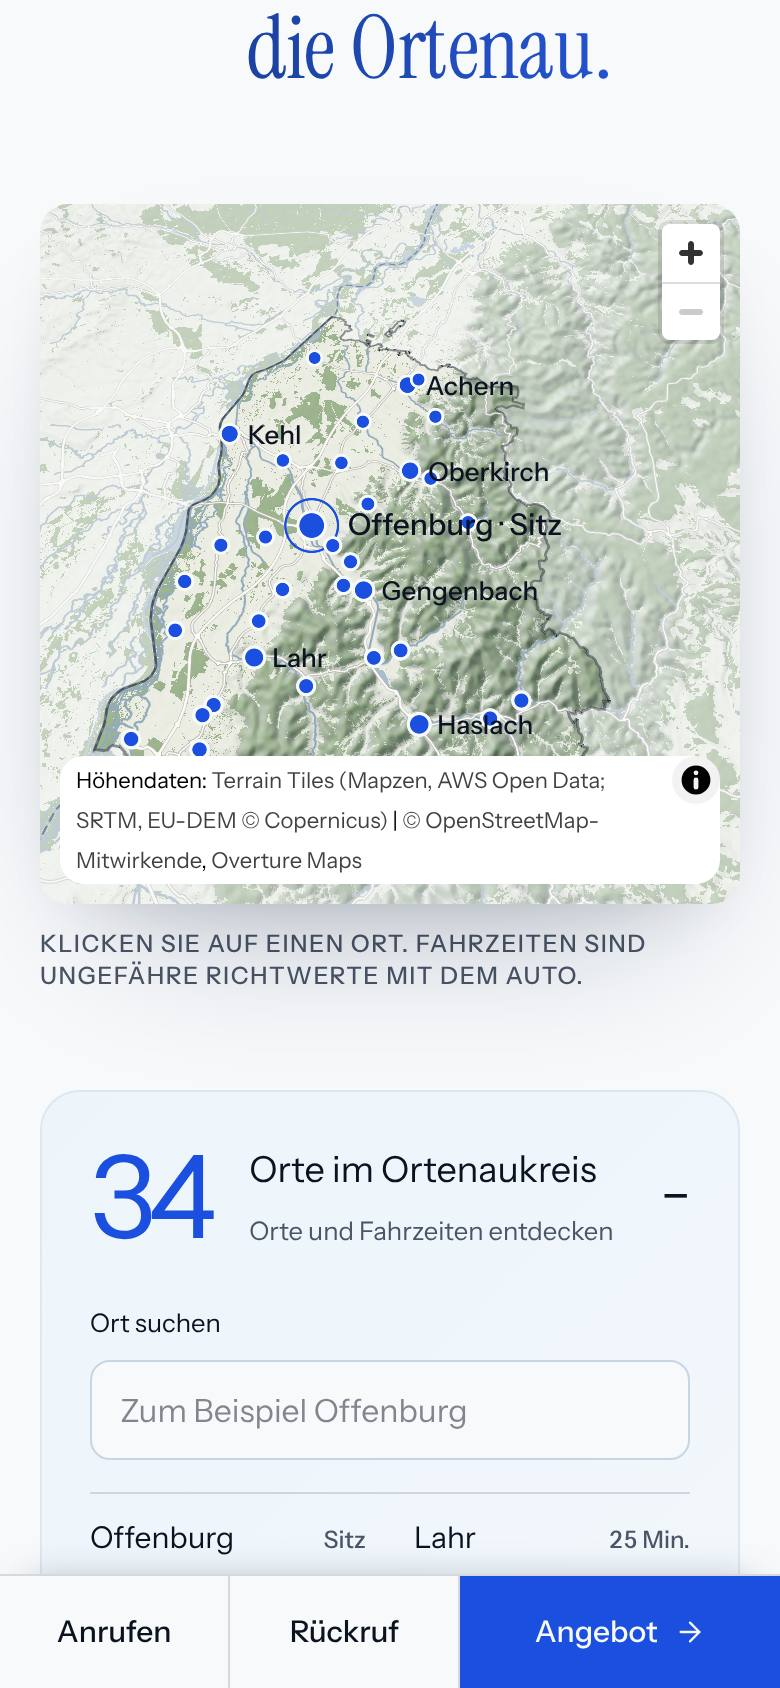
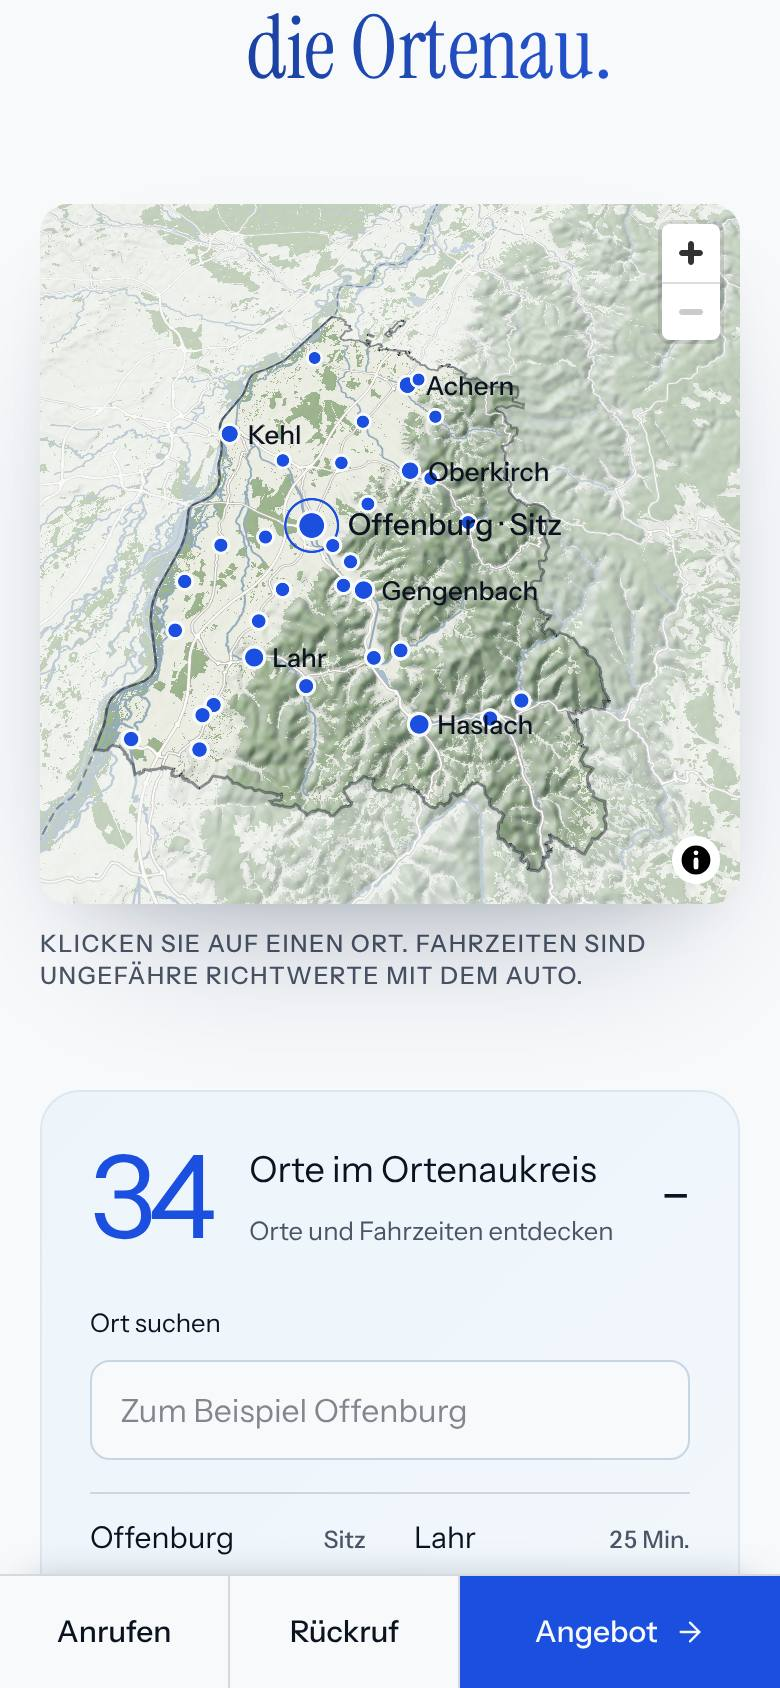
Mobile-Abschluss: Quellenangabe der Karte am Handy zugeklappt (keine Layout-Verschiebung), Desktop pixelgleich belegt, Übergangstest prüft leere Fläche auch auf 390 px und Pflanzen über Text, Belegbilder und Bericht in docs/mobile-finish, Pin-Bestand aktualisiert
Claude-Session: https://claude.ai/code/session_01NiWDwJKpehk1iauYXzL5M8

Changed region(s): [[0.0615, 0.4313, 0.9231, 0.5237]]

diff --git a/src/features/map/AreaMap.tsx b/src/features/map/AreaMap.tsx
@@ -18,9 +18,9 @@ const LiveMap = lazy(() => import('./LiveMap'))
 export function AreaMap({ className, still }: { className?: string; /** Platzhalter als Standbild der Geländekarte statt der schematischen Karte (Startseite) */ still?: boolean }) {
   const navigate = useNavigate()
   const [query, setQuery] = useState('')
-  // Ortsliste offen: am Desktop neben der Karte, am Handy darunter (Links für alle, die nicht auf der Karte tippen wollen).
-  // Schon im vorgerenderten HTML offen (kein Verschieben beim Laden); nur auf Tablets eingeklappt
-  const [expanded, setExpanded] = useState(true)
+  // Ortsliste offen: am Desktop neben der Karte, am Handy darunter (Links für alle, die nicht auf der Karte tippen wollen);
+  // auf Tablets eingeklappt
+  const [expanded, setExpanded] = useState(false)
   useEffect(() => { setExpanded(window.matchMedia('(min-width:1024px), (max-width:767px)').matches) }, [])
   const frame = useRef<HTMLDivElement>(null)
   const api = useRef<MapApi | null>(null)

diff --git a/src/features/map/LiveMap.tsx b/src/features/map/LiveMap.tsx
@@ -399,7 +399,10 @@ export default function LiveMap({
       for (const p of places) {
         const [x, y] = xy(p)
         const d = Math.hypot(x - e.point.x, y - e.point.y)
-        if (d <= bestD) ((best = p), (bestD = d))
+        if (d <= bestD) {
+          best = p
+          bestD = d
+        }
       }
       if (best) fly(best)
     })

diff --git a/docs/mobile-finish/bericht.md b/docs/mobile-finish/bericht.md
@@ -19,6 +19,8 @@ steht. Die Karte folgt im normalen Abschnittsabstand. Der Übergangstest prüft 
 - Orte sind sofort antippbar: Trefferfläche 44 × 44 px (der nächste Ort im Umkreis von 22 px). Getestet: Antippen startet den
   Vogelflug, danach öffnet sich die Ortsseite (z. B. /einzugsgebiet/kehl).
 - Darunter steht die Ortsliste mit Links jetzt auch am Handy offen (vorher eingeklappt).
+- Die Quellenangabe der Karte startet am Handy zugeklappt (Knopf „i“). Aufgeklappt wuchs sie beim Laden der Kartendaten
+  und verschob die Kartenelemente (gemessene Layout-Verschiebung 0,002; jetzt 0 in fünf Läufen).
 
 ## 3. Papierkante wie am Desktop (`3-papierkante-…`)
 - Neue Bildfolge `public/images/deko/papierkante-mobil/kante-00…09.webp` (je etwa 27 KB), erzeugt mit
@@ -61,3 +63,15 @@ Der Diagnose-Workflow ist entfernt. Im Veröffentlichungs-Workflow laufen beide 
 - Papierkante: erster Entwurf überblendete beide Bilder gegenläufig; dabei wurde das Papier halb durchsichtig (grauer
   Streifen). Jetzt bleibt das untere Bild deckend und nur das obere blendet ein.
 - Seitenende-Bild der Startseite am Handy ohne Haltestrecke (statt einer vierten Haltestelle).
+
+## Tests (Build aus `dist`, Chromium)
+
+| Test | Ergebnis |
+| --- | --- |
+| Desktop 1440 px vorher/nachher (22 Bilder, reduzierte Bewegung) | pixelgleich |
+| Übergänge Mobile, alle Seiten (jetzt mit leerer Fläche über 35 % und Pflanzen über Text) | grün, 1862 Aufnahmen; nach den letzten Änderungen Startseite und Einzugsgebiet erneut grün |
+| Übergänge Desktop, Startseite | grün, 234 Aufnahmen |
+| Lesestrecken, Abschnittsgrenzen (CLS) | grün; CLS 0 in fünf Läufen hintereinander |
+| Navigation Startseite, Einzugsgebiet | grün (152 bzw. 112 Prüfungen) |
+| Leistungsmappe, Bilder, Neuladen, Deploy, Pins | grün |
+| WebKit | im CI nur noch als Warnung |

diff --git a/docs/performance/pins.md b/docs/performance/pins.md
@@ -27,6 +27,8 @@ Ergebnis: alle Seiten halten die Regeln ein.
 | Papier-Reveal Leistungen (Mobile) | 160 svh | 150 svh |
 | Schwebende Anliegen, Ablauf (Mobile) | 160 svh | 140 svh |
 | Scroll-Sperre an Überschriften (`headingGate`) | bis 6,5 s gesperrt | entfernt |
+| Mobile-Abschluss: Papier-Reveal „Am Morgen“ (Startseite, Mobile) | im Fluss (Bild lief mit nach oben) | 100 svh, Bild steht fest |
+| Mobile-Abschluss: Seitenende-Bild (Startseite, Mobile) | 80 svh | im Fluss als Band (höchstens drei Haltestellen) |
 
 ## Bestand
 
@@ -45,7 +47,7 @@ Ergebnis: alle Seiten halten die Regeln ein.
 | /ueber-uns/ | Desktop | about-moment (.arrive-stage.sticky) | sticky | 80 |
 | /kontakt/ | Desktop | footer (.ftr-img.photo) | sticky | 80 |
 | / | Mobile | arrive-title (.arrive-stage.sticky) | sticky | 80 |
-| / | Mobile | footer (.ftr-img.photo) | sticky | 80 |
+| / | Mobile | morning-title (.pr-stage) | sticky | 100 |
 | / | Mobile | hero-title (.hero-pin.relative) | GSAP-Pin | 150 |
 | /leistungen/ | Mobile | standard-title (.pr-stage) | sticky | 150 |
 | /leistungen/ | Mobile | footer (.ftr-img.photo) | sticky | 80 |
